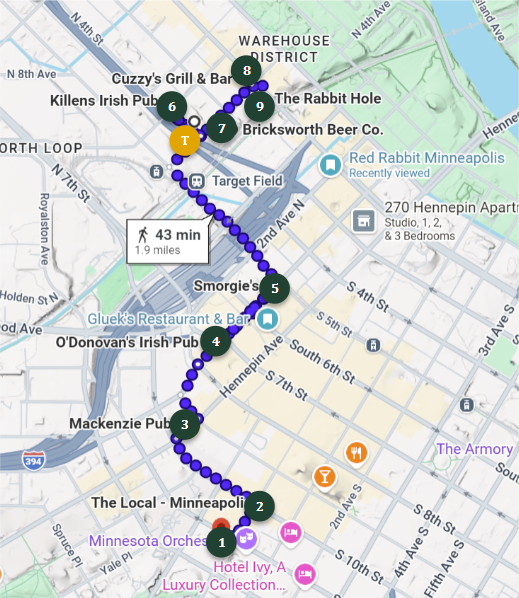
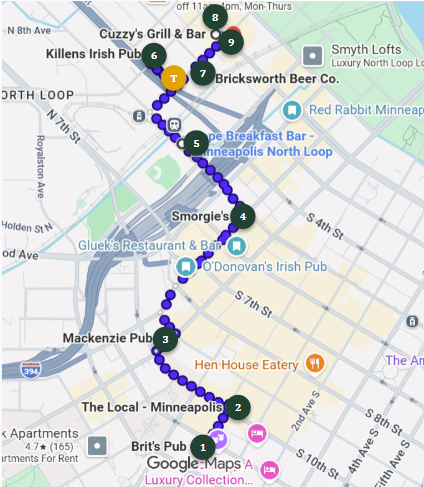
swap out donnys

diff --git a/script.js b/script.js
@@ -73,16 +73,6 @@ const HOLES = [
   },
   {
     num: 4,
-    name: 'O\'Donovan\'s',
-    par: 3,
-    img: 'hole6.jpg',
-    link: 'https://odonovans.com/',
-    linkLabel: 'O\'Donovan\'s website',
-    beer: ['Smithwicks Red Ale 4.5% ABV', 'Finnegans Irish Amber 4.8% ABV', 'Guinesss 4.25 ABV'],
-    liquor: ['O\'Donovan\'s Bloody', 'O\'Donovan\'s Red Rose', 'Irish Blueberry Black Tea'],
-  },
-  {
-    num: 5,
     name: 'Smorgies',
     par: 5,
     img: 'hole5.jpg',
@@ -91,6 +81,16 @@ const HOLES = [
     beer: ['Tap List', 'Is Unknown', 'But There are Canned Drinks'],
     liquor: ['Smorgies Hibiscus Spritz', 'Cucumber Cooler', 'Chelsea\'s Red Sangria'],
     bonus: { title: 'Earning the Par 5', text: 'To make this hole a true par five, each golfer must also take two shots.' },
+  },
+    {
+    num: 5,
+    name: 'Bassett Hound',
+    par: 3,
+    img: 'hole6.jpg',
+    link: 'https://www.bassetthoundnlg.com/menu',
+    linkLabel: 'Bassett Hound website',
+    beer: ['Barrel Theory', 'Elm Creek Sour', 'MN Craft Beer Rotational'],
+    liquor: ['Any Spritz', 'Minneapolis Mule', 'Far North Old Fashioned'],
     turnAfter: true,
   },
   {

diff --git a/index.html b/index.html
@@ -226,11 +226,11 @@
           </div>
           <div>
             <div class="route-fact-num">36</div>
-            <div class="route-fact-label">Minutes walking, tee to tee</div>
+            <div class="route-fact-label">Minutes walking, hole to hole</div>
           </div>
         </div>
         <p class="section-sub reveal" style="margin-bottom:1.5rem;">Turn-by-turn walking directions, stop to stop.</p>
-        <a href="https://maps.app.goo.gl/Z6QeYAtRstFKrH9P6" class="placeholder-link reveal">
+        <a href="https://maps.app.goo.gl/NrvDHNUZvitD6jqk6" class="placeholder-link reveal">
           Open Route in Google Maps →
         </a>
       </div>
